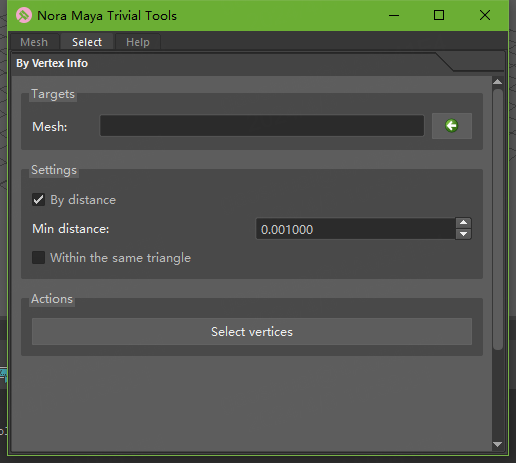
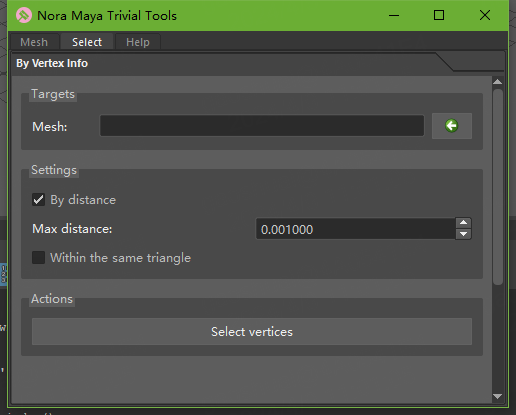
ui

diff --git a/Select/UI/noraSelectByVertexInfoWidget.py b/Select/UI/noraSelectByVertexInfoWidget.py
@@ -109,7 +109,7 @@ class Ui_noraSelectByVertexInfoWidget(object):
         self.groupBox.setTitle(QCoreApplication.translate("noraSelectByVertexInfoWidget", u"Targets", None))
         self.groupBox_2.setTitle(QCoreApplication.translate("noraSelectByVertexInfoWidget", u"Settings", None))
         self.byDistanceCheckBox.setText(QCoreApplication.translate("noraSelectByVertexInfoWidget", u"By distance", None))
-        self.label.setText(QCoreApplication.translate("noraSelectByVertexInfoWidget", u"Min distance:", None))
+        self.label.setText(QCoreApplication.translate("noraSelectByVertexInfoWidget", u"Max distance:", None))
         self.sameTriangleCheckBox.setText(QCoreApplication.translate("noraSelectByVertexInfoWidget", u"Within the same triangle", None))
         self.groupBox_3.setTitle(QCoreApplication.translate("noraSelectByVertexInfoWidget", u"Actions", None))
         self.selectVertButton.setText(QCoreApplication.translate("noraSelectByVertexInfoWidget", u"Select vertices", None))
